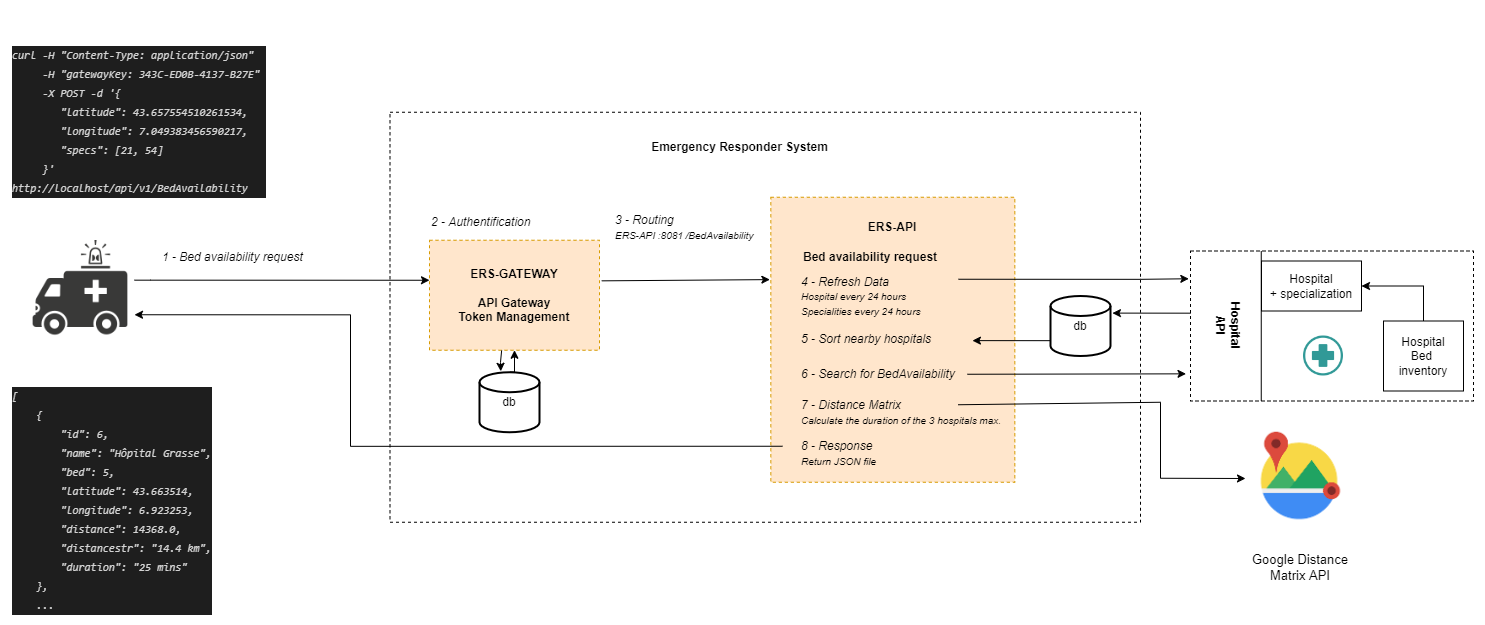
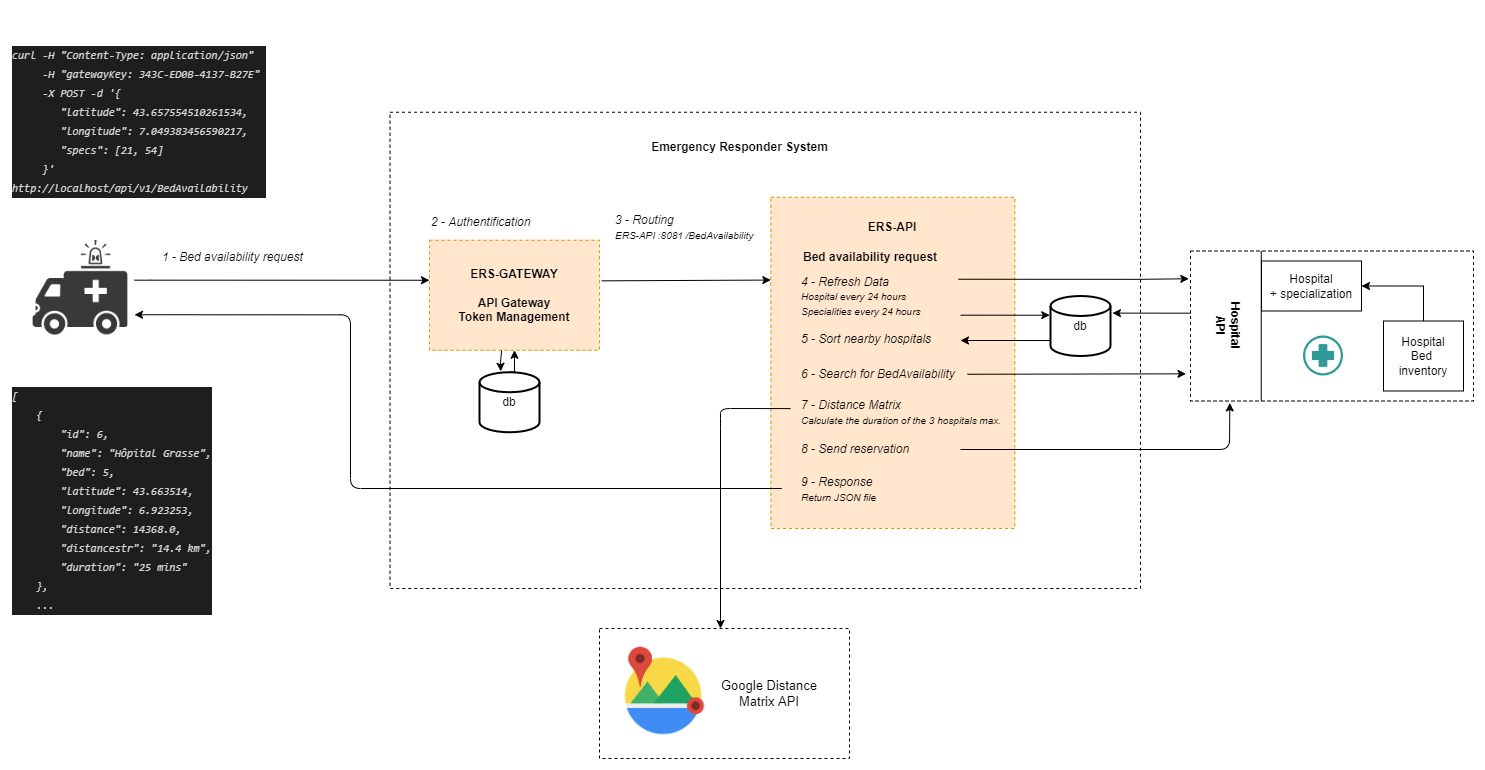
doc

diff --git a/docs/Architecture_metier.md b/docs/Architecture_metier.md
@@ -1,0 +1,40 @@
+# Architecture métier
+
+## Comportement
+Pour reprendre l'exemple décrit dans le document [Hypothèse de validation de principe](https://github.com/GitSDamien/OC_11_Architectural/blob/master/artefacts/architecture/hypothesis-emergency-responder), du repository [GitSDamien/OC_11_Architectural](https://github.com/GitSDamien/OC_11_Architectural) :
+
+
+Par exemple, SUPPOSONS trois hôpitaux, comme suit :
+
+| Hôpital | Lits disponibles | Spécialisations |
+|:-------|:-------:|:-------|
+| Hôpital Fred Brooks | 2 | Cardiologie, Immunologie|
+| Hôpital Julia Crusher | 0 | Cardiologie | 
+| Hôpital Beverly Bashir | 5 | Immunologie, neuropathologie diagnostique |
+
+* ET un patient nécessitant des soins en cardiologie.
+* QUAND vous demandez des soins en cardiologie ET que l'urgence est localisée près de l'hôpital Fred Brooks
+* ALORS l'hôpital Fred Brooks devrait être proposé
+* ET un événement devrait être publié pour réserver un lit.
+
+<br>
+<br>
+
+![Architecture métier](./images/Architecture_metier.png)
+
+1. Requête de demande de disponibilité de lit, selon :
+    - latitude / longitude
+    - id(s) des spécialités NHS
+    
+2. Authentification par token encapsulé dans le header
+3. Routage vers le microservice 
+    - ERS-API :8081 /BedAvailability
+4. Raifraichir les données toutes les 24h pour les tables :
+    - Hospital
+    - Specialities
+5. Récupère la liste des hopitaux et les trie par distance (à vol d'oiseaux)
+6. Demande de dispo de lit à l'API Hospital
+7. Demande de calcul de la distance et du temps de trajet avec Google Distance Matrix
+    - (3 est le nombre max d'hopitaux pour les étapes 6. et 7.)
+8. Envoyer la réservation de lit à l'API Hospital
+9. Répondre à l'utilisateur (JSON file) l'hopital choisi avec son temps de parcours et ses kilomètres.

diff --git a/README.md b/README.md
@@ -7,9 +7,9 @@ La plateforme MedHead est détenue conjointement et développée par un consorti
 
 # Architecture
 
-## Architecture métier
+## [Architecture métier](./docs/Architecture_metier.md)
 
-![Architecture métier](./docs/images/Architecture_metier.png)
+[![Architecture métier](./docs/images/Architecture_metier.png)](./docs/Architecture_metier.md)
 
 
 ## Architecture logicielle
